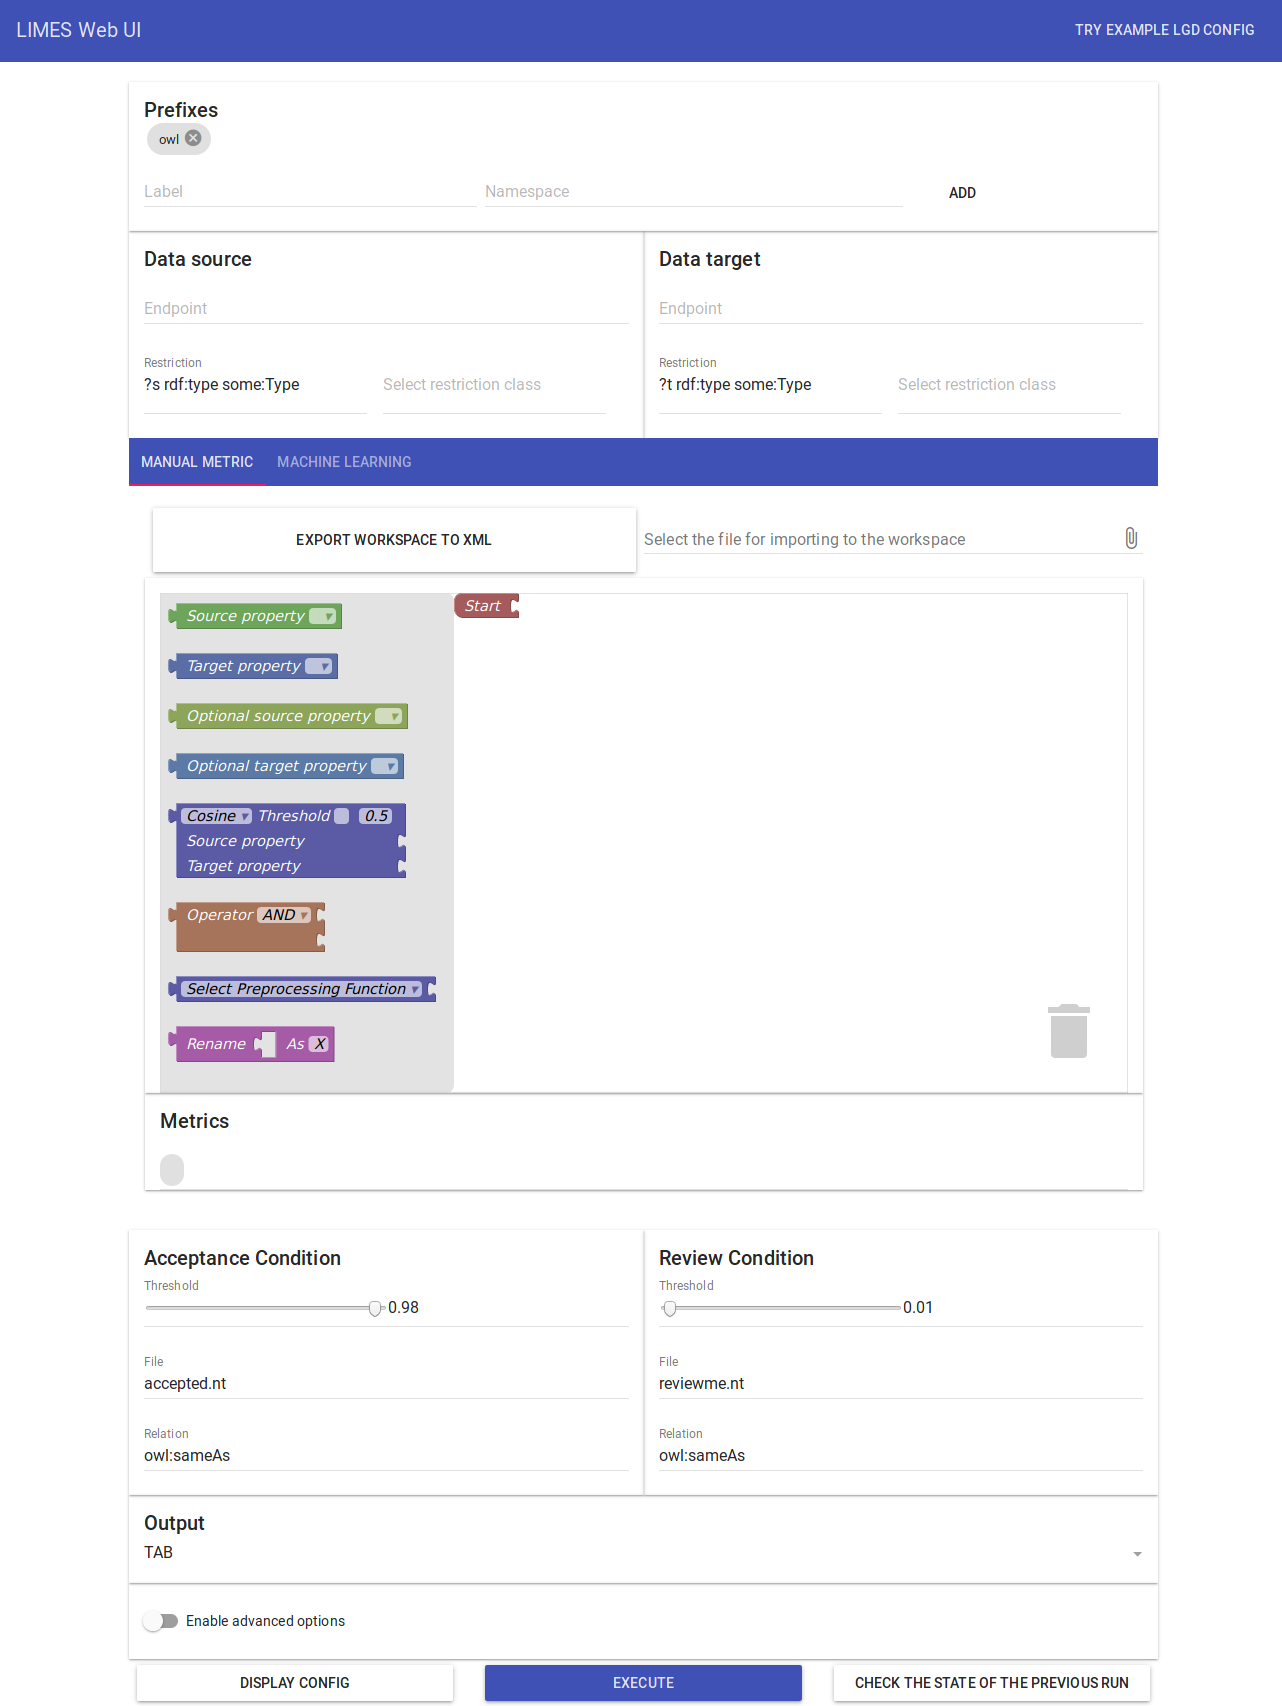
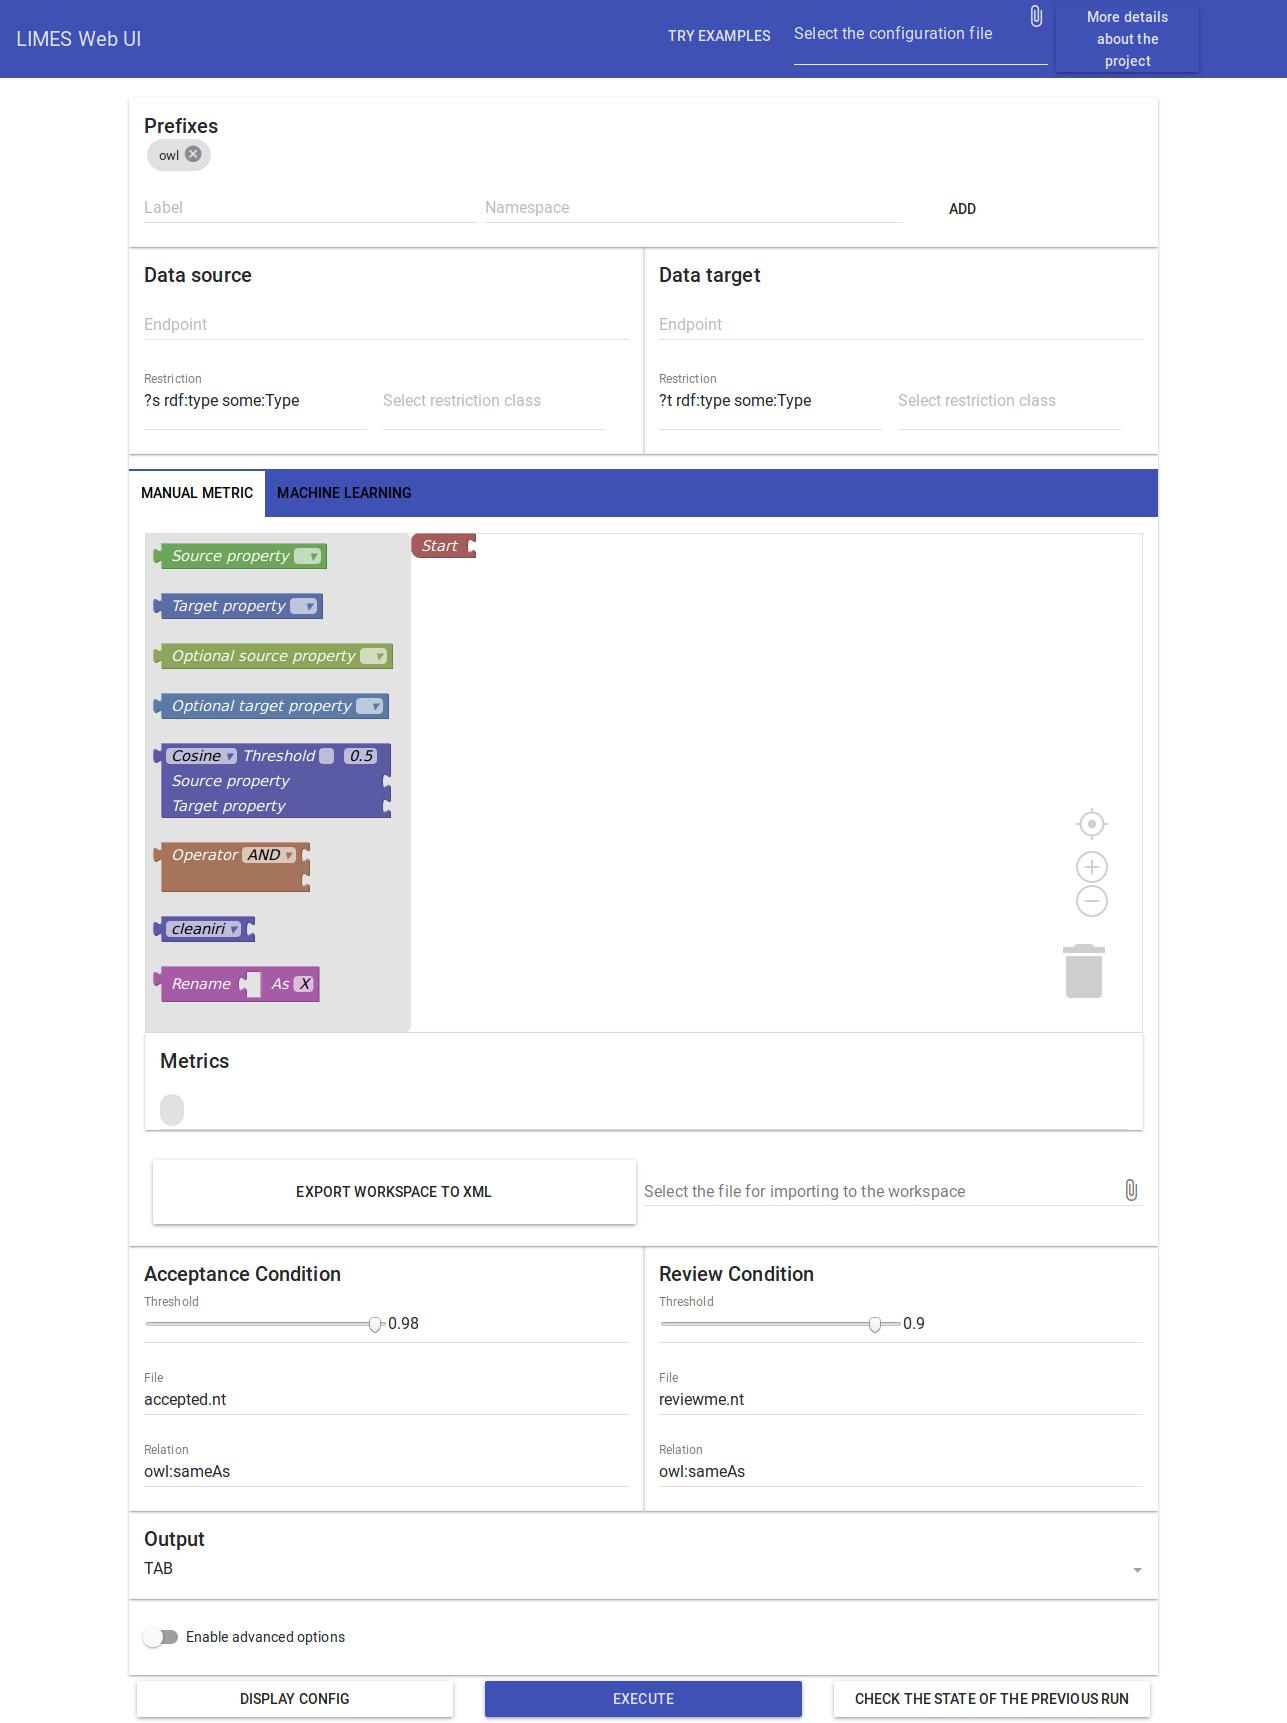
Added one additional example, added default properties for ML, updated pictures in manual, fixed bug #208

diff --git a/limes-core/src/main/resources/web-ui/main.js b/limes-core/src/main/resources/web-ui/main.js
@@ -111,7 +111,7 @@ let app = new Vue({
     },
     review: {
       id: 'review',
-      threshold: 0.01,
+      threshold: 0.9,
       file: 'reviewme.nt',
       relation: 'owl:sameAs',
     },
@@ -122,8 +122,8 @@ let app = new Vue({
       training: 'trainingData.nt',
       parameters: [
         {
-          name: 'max execution time in minutes',
-          value: 60,
+          name: 'max refinement tree size',
+          value: 2000,
         },
       ],
     },
@@ -221,7 +221,7 @@ let app = new Vue({
                   scaleSpeed: 1.2},
                 trashcan: true,
               });
-          console.log(this.Workspace);
+          //console.log(this.Workspace);
           //new Blockly.ScrollbarPair(this.Workspace);
           var onresize = (e) => {
             // Compute the absolute coordinates and dimensions of blocklyArea.
@@ -541,6 +541,15 @@ let app = new Vue({
       Measure.args0[0].options.push(i);
     });  
 
+    let params = Object.keys(MLParameters.WOMBAT).map(function(i) {
+      return {
+        name: i,
+        value: MLParameters.WOMBAT[i].default || MLParameters.WOMBAT[i],
+      } 
+    });
+    this.mlalgorithm.parameters.splice(0);
+    this.mlalgorithm.parameters = params;
+
   },
   methods: {
     deletePrefix(prefix) {
@@ -687,7 +696,35 @@ let app = new Vue({
       const src = makeDatasource(this.source, 'SOURCE');
       const target = makeDatasource(this.target, 'TARGET');
 
-      const metrics = !this.mlalgorithm.enabled ? this.metrics
+      // add threshold from review threshold if user didn't choose threshold for measures using operators
+      let changedMetrics = [];
+      let operators = ['and','or','xor','nand'];
+      let hasOperator = operators.filter( i => this.metrics[0].toLowerCase().indexOf(i) !== -1);
+      if(hasOperator){ 
+        let isLeftThreshold = this.metrics[0].indexOf("),");
+        let isRightThreshold = this.metrics[0].indexOf("))"); 
+        let placeForThreshold = this.metrics[0].split(")");  
+        if (isLeftThreshold !== -1 && isRightThreshold !== -1){
+          // user didn't choose threshold
+          let strWithThreshold = placeForThreshold[0] + ")|" + this.review.threshold + placeForThreshold[1] + ")|" + this.review.threshold+")";
+          changedMetrics.push(strWithThreshold);
+        } else if(isLeftThreshold !== -1 && isRightThreshold === -1){
+          // user changed right threshold  
+          let strWithThreshold = placeForThreshold[0] + ")|" + this.review.threshold + placeForThreshold[1] + ")" + placeForThreshold[2] +")";
+          changedMetrics.push(strWithThreshold);
+        } else if(isLeftThreshold === -1 && isRightThreshold !== -1){
+          // user changed left threshold  
+          let strWithThreshold = placeForThreshold[0] + ")" + placeForThreshold[1] + ")|" + this.review.threshold+")";
+          changedMetrics.push(strWithThreshold);
+        } else {
+          changedMetrics = this.metrics;
+        }
+      } else {
+        // don't change
+        changedMetrics = this.metrics;
+      }
+      
+      const metrics = !this.mlalgorithm.enabled ? changedMetrics//this.metrics
         .map(
           m => `<METRIC>
   ${m}
@@ -922,10 +959,6 @@ let app = new Vue({
           namespace: 'http://linkedgeodata.org/ontology/',
           label: 'lgdo',
         },
-        {
-          namespace: 'http://www.w3.org/2000/01/rdf-schema#',
-          label: 'rdfs',
-        },
       ];
       this.source = {
         id: 'sourceId',
@@ -935,7 +968,7 @@ let app = new Vue({
         restriction: '?s a lgdo:RelayBox',
         type: '',
         properties: ['geom:geometry/geos:asWKT RENAME polygon'],
-        optionalProperties: ['rdfs:label'],
+        optionalProperties: [],
         classes: ['http://linkedgeodata.org/ontology/RelayBox'],
         propertiesForChoice: [],
       };
@@ -947,7 +980,7 @@ let app = new Vue({
         restriction: '?t a lgdo:RelayBox',
         type: '',
         properties: ['geom:geometry/geos:asWKT RENAME polygon'],
-        optionalProperties: ['rdfs:label'],
+        optionalProperties: [],
         classes: ['http://linkedgeodata.org/ontology/RelayBox'],
         propertiesForChoice: [],
       };
@@ -1004,6 +1037,73 @@ let app = new Vue({
         engine: 'DEFAULT',
       };
       this.output = {type: 'TAB'};
+    },
+    exampleFilmAndMovieConfig(){
+      let textFromXMLFile = `<?xml version="1.0" encoding="UTF-8"?>
+        <!DOCTYPE LIMES SYSTEM "limes.dtd">
+        <LIMES>
+        <PREFIX>
+          <NAMESPACE>http://www.w3.org/2002/07/owl#</NAMESPACE>
+          <LABEL>owl</LABEL>
+        </PREFIX>
+        <PREFIX>
+          <NAMESPACE>http://schema.org/</NAMESPACE>
+          <LABEL>url</LABEL>
+        </PREFIX>
+        <PREFIX>
+          <NAMESPACE>http://www.w3.org/1999/02/22-rdf-syntax-ns#</NAMESPACE>
+          <LABEL>rdf</LABEL>
+        </PREFIX>
+        <PREFIX>
+          <NAMESPACE>http://dbpedia.org/ontology/</NAMESPACE>
+          <LABEL>dbpo</LABEL>
+        </PREFIX>
+        <PREFIX>
+          <NAMESPACE>http://www.w3.org/2000/01/rdf-schema#</NAMESPACE>
+          <LABEL>rdfs</LABEL>
+        </PREFIX>
+        <SOURCE>
+          <ID>sourceId</ID>
+          <ENDPOINT>http://dbpedia.org/sparql</ENDPOINT>
+          <VAR>?s</VAR>
+          <PAGESIZE>1000</PAGESIZE>
+          <RESTRICTION>?s rdf:type url:Movie</RESTRICTION>
+          <PROPERTY>rdfs:label</PROPERTY>
+
+          <TYPE>sparql</TYPE>
+        </SOURCE>
+        <TARGET>
+          <ID>targetId</ID>
+          <ENDPOINT>http://dbpedia.org/sparql</ENDPOINT>
+          <VAR>?t</VAR>
+          <PAGESIZE>1000</PAGESIZE>
+          <RESTRICTION>?t rdf:type dbpo:Film</RESTRICTION>
+          <PROPERTY>rdfs:label</PROPERTY>
+
+          <TYPE>sparql</TYPE>
+        </TARGET>
+        <METRIC>
+          AND(cosine(s.rdfs:label,t.rdfs:label)|0.9,exactmatch(s.rdfs:label,t.rdfs:label)|0.9)
+        </METRIC>
+        <ACCEPTANCE>
+        <THRESHOLD>0.98</THRESHOLD>
+        <FILE>accepted.nt</FILE>
+        <RELATION>owl:sameAs</RELATION>
+        </ACCEPTANCE>
+        <REVIEW>
+        <THRESHOLD>0.9</THRESHOLD>
+        <FILE>reviewme.nt</FILE>
+        <RELATION>owl:sameAs</RELATION>
+        </REVIEW>
+        <EXECUTION>
+          <REWRITER>DEFAULT</REWRITER>
+          <PLANNER>DEFAULT</PLANNER>
+          <ENGINE>DEFAULT</ENGINE>
+        </EXECUTION>
+        <OUTPUT>TAB</OUTPUT>
+      </LIMES>`;
+      let confugurationFileParser = new configurationFileParser(this);
+      confugurationFileParser.xmlToHtml(textFromXMLFile);
     },
   },
 });

diff --git a/limes-core/src/main/resources/web-ui/index.html b/limes-core/src/main/resources/web-ui/index.html
@@ -107,6 +107,17 @@
   .md-toolbar .md-input-container input{
     height: 60px;
   }
+  .md-theme-default.md-tabs > .md-tabs-navigation .md-tab-header.md-active, .md-theme-default.md-tabs > .md-tabs-navigation .md-tab-header > button:focus {
+    background-color: #fff;
+  }
+  .md-tab-header-container{
+    color: #000;
+  }
+  .md-tab-indicator{
+    background-color: #3f51b5 !important;
+    top: 0;
+  }
+
 </style>
 
   <!-- LIMES server ref -->
@@ -128,9 +139,19 @@
       <md-toolbar>
         <md-layout><h2 class="md-title" style="flex: 1" md-flex="60">LIMES Web UI</h2></md-layout>
         <md-layout>
-          <md-layout md-flex="35">
+
+        <md-menu md-size="5" md-align-trigger>
+          <md-button md-menu-trigger style="margin-top: 18px;">Try examples</md-button>
+
+          <md-menu-content>
+            <md-menu-item v-on:click="exampleConfig()">Try example LGD config</md-menu-item>
+            <md-menu-item v-on:click="exampleFilmAndMovieConfig()">Try example Movie and Film config</md-menu-item>
+          </md-menu-content>
+        </md-menu>
+
+<!--           <md-layout md-flex="35">
             <md-button v-on:click="exampleConfig()">Try example LGD config</md-button>
-          </md-layout>
+          </md-layout> -->
 
           <md-layout md-flex="40">
             <md-input-container style="margin-bottom: 13px;">
@@ -274,40 +295,42 @@
             ></datasource-component>
         </div>    
 
+      <md-whiteframe md-tag="section" style="flex: 1; padding-top: 15px;">
           <md-tabs @change="manualMetricClicked">
             <md-tab id="manualMetric" md-label="Manual metric">
+                
+                <datacanvas-component v-bind:source="source" v-bind:target="target" title="Data target"></datacanvas-component>
+                <!-- metrics UI -->
+                <metrics-component
+                  v-bind:metrics="metrics"
+                ></metrics-component>
 
-              <md-layout>
                 <md-layout>
-                  <md-button class="md-raised md-flex" v-on:click="exportWorkspace()">Export workspace to xml</md-button>
-                </md-layout>
+                  <md-layout>
+                    <md-button class="md-raised md-flex" v-on:click="exportWorkspace()">Export workspace to xml</md-button>
+                  </md-layout>
 
-                <md-layout>
-                  <md-input-container>
-                    <label>Select the file for importing to the workspace</label>
-                    <md-file v-model="fileWorkspaceForInput" id="fileToLoad" v-on:selected="importWorkspace()"></md-file>
-                  </md-input-container>
+                  <md-layout>
+                    <md-input-container>
+                      <label>Select the file for importing to the workspace</label>
+                      <md-file v-model="fileWorkspaceForInput" id="fileToLoad" v-on:selected="importWorkspace()"></md-file>
+                    </md-input-container>
+                  </md-layout>
                 </md-layout>
-              </md-layout>
-
-              <datacanvas-component v-bind:source="source" v-bind:target="target" title="Data target"></datacanvas-component>
-              <!-- metrics UI -->
-              <metrics-component
-                v-bind:metrics="metrics"
-              ></metrics-component>
 
 
             </md-tab>
             <md-tab id="machineLearning" md-label="Machine learning">
               <!-- machine learning UI -->
-              <mlalgorithm-component 
-              v-bind:measures="measures" 
-              v-bind:data="mlalgorithm" 
-              v-bind:source="source" 
-              v-bind:target="target"
-              ></mlalgorithm-component>
+                <mlalgorithm-component 
+                v-bind:measures="measures" 
+                v-bind:data="mlalgorithm" 
+                v-bind:source="source" 
+                v-bind:target="target"
+                ></mlalgorithm-component>
             </md-tab>
-          </md-tabs>          
+          </md-tabs> 
+        </md-whiteframe>      
 
           <!-- acceptance UI -->
           <div class="row">
@@ -490,7 +513,7 @@
   </script>
 
   <script type="text/x-template" id="datacanvasComponent">
-    <md-whiteframe md-tag="section" style="flex: 1; padding-top: 15px; padding-left: 15px; padding-right: 15px;">
+<!--     <md-whiteframe md-tag="section" style="flex: 1; padding-top: 15px; padding-left: 15px; padding-right: 15px;"> -->
       <md-layout>
           <div id="blocklyArea" style="height: 500px; width: 100%;"></div>
           <div id="blocklyDiv" style="position: absolute"></div>
@@ -507,7 +530,7 @@
 
           </xml>
       </md-layout>
-    </md-whiteframe>
+    <!-- </md-whiteframe> -->
   </script>
 
   <!-- metrics component -->

diff --git a/limes-core/src/main/resources/web-ui/configurationFileParser.js b/limes-core/src/main/resources/web-ui/configurationFileParser.js
@@ -426,7 +426,6 @@ class configurationFileParser {
         measureBlock.appendChild(fieldThreshold);
         measureBlock.appendChild(valueSrcProp);
         measureBlock.appendChild(valueTgtProp);
-
         this.addPreprocessingsWithProperty(doc, valueSrcProp, srcProp, fieldSrcProp, this.context.source.properties[0]);
         this.addPreprocessingsWithProperty(doc, valueTgtProp, tgtProp, fieldTgtProp, this.context.target.properties[0]);
 
@@ -457,8 +456,8 @@ class configurationFileParser {
         measureBlock2.appendChild(valueSrcProp2);
         measureBlock2.appendChild(valueTgtProp2);
 
-        this.addPreprocessingsWithProperty(doc, valueSrcProp2, srcProp2, fieldSrcProp2, this.context.source.properties[1]);
-        this.addPreprocessingsWithProperty(doc, valueTgtProp2, tgtProp2, fieldTgtProp2, this.context.target.properties[1]);
+        this.addPreprocessingsWithProperty(doc, valueSrcProp2, srcProp2, fieldSrcProp2, this.context.source.properties[0]);
+        this.addPreprocessingsWithProperty(doc, valueTgtProp2, tgtProp2, fieldTgtProp2, this.context.target.properties[0]);
 
         doc.appendChild(xmlElem);
       }

diff --git a/limes-core/src/main/resources/web-ui/properties.js b/limes-core/src/main/resources/web-ui/properties.js
@@ -56,7 +56,7 @@ class Properties {
         if(content.boolean){
           this.getForNextLevelProperties(p,endpoint);
         }
-        console.log(content.boolean);
+        //console.log(content.boolean);
 
       })
     }
